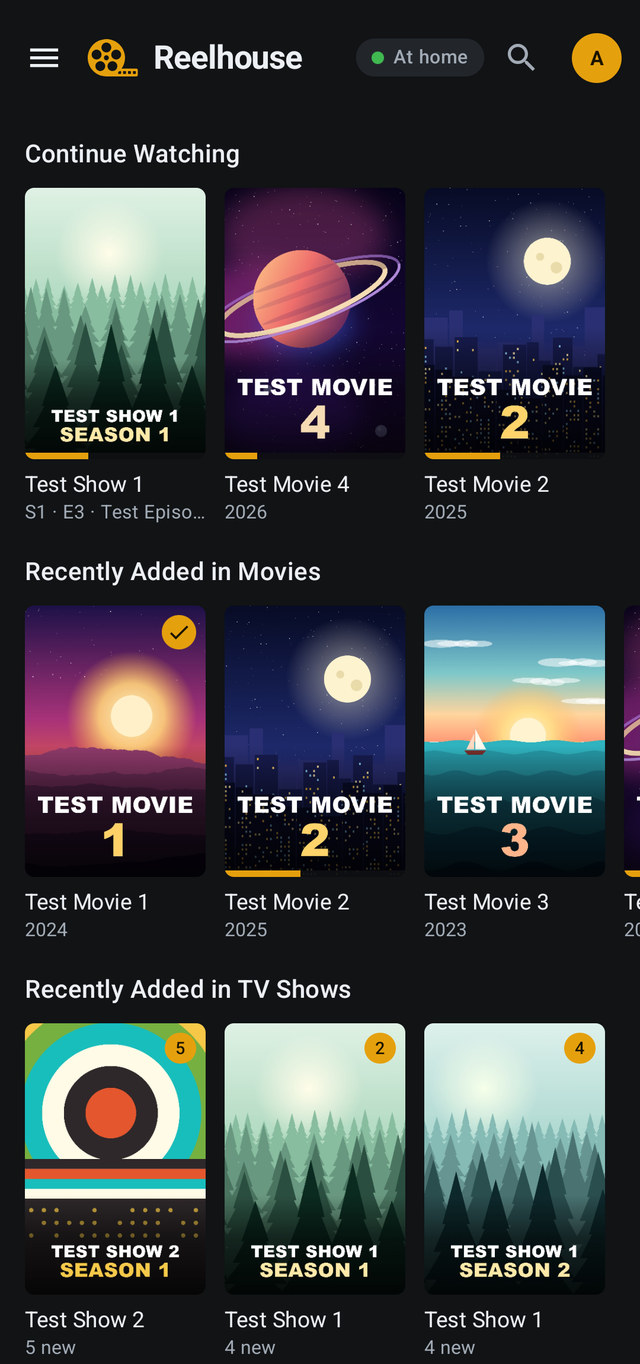
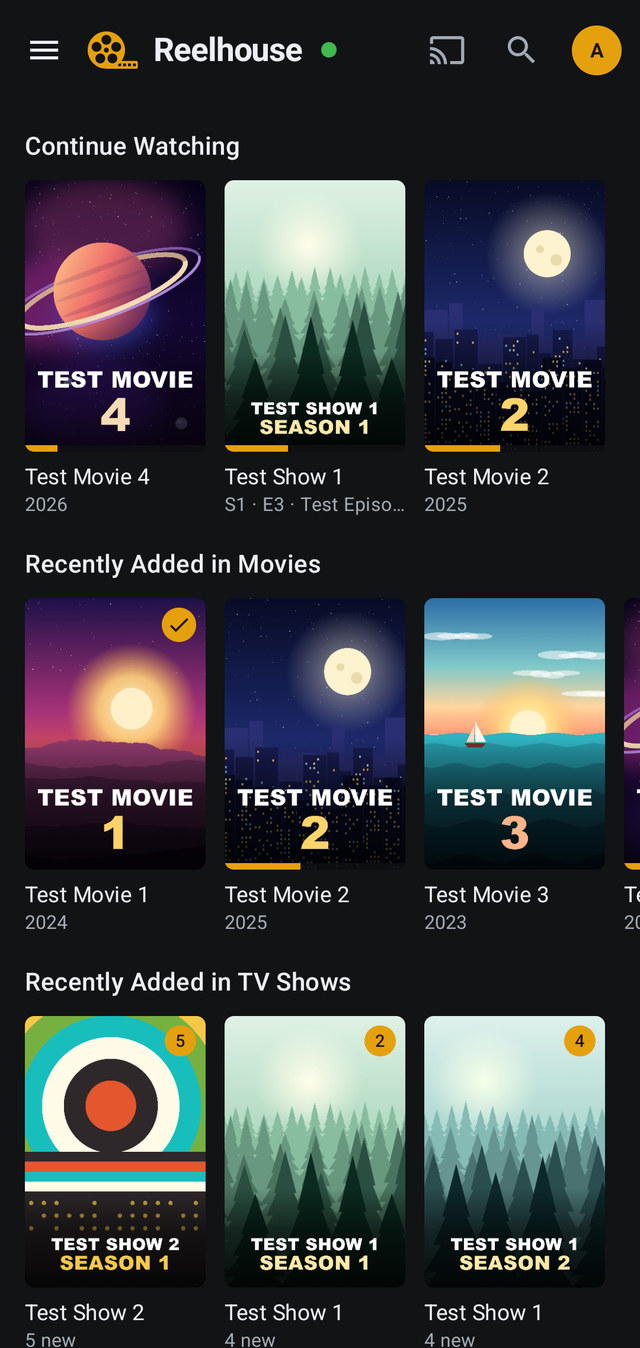
Reelhouse 0.26.2: the Play on list shows what each device is
- Server 0.26.2: a device the phone remote can control may say what it is
  in its event stream (&form=tablet or &form=firetv), and the list of
  devices passes it on; anything else is left out. Older apps send none and
  older servers ignore it.
- Android app 0.16.2 (versionCode 38): the app on a Fire TV (Fire OS's
  amazon.hardware.fire_tv) or a tablet says so, and the Play on list and the
  remote screen show each device's icon from it: a Fire TV as a stick beside
  its remote (a new icon, drawn on Material's grid), a tablet as a tablet,
  falling back to the kind (TV, browser, phone). On a tablet the list starts
  with "This tablet".
- README: the app's Home screenshot retaken (it showed app 0.11.1) and the
  Play on list's added to the Phone remote section, both from the made-up
  demo; android/README notes the icons.

diff --git a/android/app/src/main/java/app/reelhouse/android/ui/remote/Cast.kt b/android/app/src/main/java/app/reelhouse/android/ui/remote/Cast.kt
@@ -22,6 +22,7 @@ import androidx.compose.material.icons.filled.Computer
 import androidx.compose.material.icons.filled.Pause
 import androidx.compose.material.icons.filled.PhoneAndroid
 import androidx.compose.material.icons.filled.PlayArrow
+import androidx.compose.material.icons.filled.TabletAndroid
 import androidx.compose.material.icons.filled.Tv
 import androidx.compose.material3.ExperimentalMaterial3Api
 import androidx.compose.material3.Icon
@@ -51,12 +52,28 @@ import app.reelhouse.android.data.remote.RemoteTarget
 import app.reelhouse.android.ui.common.LocalRemoteDevice
 import app.reelhouse.android.ui.theme.Palette
 
-/** The icon for a kind of device. */
-fun targetIcon(kind: String): ImageVector = when (kind) {
-    "web" -> Icons.Filled.Computer
-    "phone" -> Icons.Filled.PhoneAndroid
-    else -> Icons.Filled.Tv // a TV box, Kodi
+/** What a device looks like in the phone remote's list. */
+enum class DeviceIcon { Phone, Tablet, Tv, FireTv, Computer }
+
+/** A device's icon: by what it says it is ([RemoteTarget.form], from app 0.16.2), else by its kind. */
+fun deviceIcon(kind: String, form: String?): DeviceIcon = when {
+    form == "firetv" -> DeviceIcon.FireTv
+    form == "tablet" -> DeviceIcon.Tablet
+    kind == "web" -> DeviceIcon.Computer
+    kind == "phone" -> DeviceIcon.Phone // the app before 0.16.2, on a tablet (or before 0.16.1, on a phone)
+    else -> DeviceIcon.Tv // a TV box other than a Fire TV, Kodi
 }
+
+val DeviceIcon.vector: ImageVector
+    get() = when (this) {
+        DeviceIcon.Phone -> Icons.Filled.PhoneAndroid
+        DeviceIcon.Tablet -> Icons.Filled.TabletAndroid
+        DeviceIcon.Tv -> Icons.Filled.Tv
+        DeviceIcon.FireTv -> FireTvIcon
+        DeviceIcon.Computer -> Icons.Filled.Computer
+    }
+
+fun targetIcon(t: RemoteTarget): ImageVector = deviceIcon(t.kind, t.form).vector
 
 /**
  * "Playing · A Show · S1 · E3", "Paused · A Film" or "Playing · One · The News", for a device's line in the list; just
@@ -106,15 +123,18 @@ fun PlayOnSheet(onDismiss: () -> Unit, onRemote: () -> Unit, onPicked: ((RemoteT
     val targets by c.remote.targets.collectAsState()
     val active by c.remote.active.collectAsState()
     LaunchedEffect(Unit) { c.remote.refresh() }
+    // The Cast button is on phones and tablets (not TV boxes).
+    val self = if (c.phone) "phone" else "tablet"
     ModalBottomSheet(onDismissRequest = onDismiss, sheetState = rememberModalBottomSheetState(skipPartiallyExpanded = true), containerColor = Palette.Elevated) {
         Column(Modifier.fillMaxWidth().padding(bottom = 24.dp)) {
             Text("Play on", style = MaterialTheme.typography.titleLarge, modifier = Modifier.padding(horizontal = 24.dp, vertical = 8.dp))
-            TargetRow(Icons.Filled.PhoneAndroid, "This phone", null, selected = active == null) {
+            val selfIcon = if (c.phone) DeviceIcon.Phone else DeviceIcon.Tablet
+            TargetRow(selfIcon.vector, "This $self", null, selected = active == null) {
                 c.remote.disconnect()
                 onDismiss()
             }
             for (t in targets) {
-                TargetRow(targetIcon(t.kind), t.label, targetLine(t), selected = active?.id == t.id) {
+                TargetRow(targetIcon(t), t.label, targetLine(t), selected = active?.id == t.id) {
                     c.remote.connect(t)
                     onDismiss()
                     when {
@@ -144,7 +164,7 @@ fun PlayOnSheet(onDismiss: () -> Unit, onRemote: () -> Unit, onPicked: ((RemoteT
                 )
             }
             Text(
-                "Lists your devices with Reelhouse open on the same network as this phone, and others' that they share " +
+                "Lists your devices with Reelhouse open on the same network as this $self, and others' that they share " +
                     "with anyone at home (what plays there counts on their account).",
                 style = MaterialTheme.typography.bodySmall,
                 color = Palette.TextFaint,

diff --git a/android/app/src/test/java/app/reelhouse/android/data/remote/RemoteTest.kt b/android/app/src/test/java/app/reelhouse/android/data/remote/RemoteTest.kt
@@ -2,8 +2,12 @@ package app.reelhouse.android.data.remote
 
 import app.reelhouse.android.data.events.ServerEvent
 import app.reelhouse.android.data.events.parseServerEvent
+import app.reelhouse.android.ui.common.deviceForm
 import app.reelhouse.android.ui.common.phoneSized
+import app.reelhouse.android.ui.remote.DeviceIcon
+import app.reelhouse.android.ui.remote.deviceIcon
 import app.reelhouse.android.ui.remote.stateLine
+import kotlinx.serialization.json.Json
 import org.junit.Assert.assertEquals
 import org.junit.Assert.assertNull
 import org.junit.Test
@@ -145,4 +149,35 @@ class RemoteTest {
         assertEquals(false, phoneSized(800)) // a Fire HD 10
         assertEquals(false, phoneSized(0)) // Android doesn't know: not taken as a phone
     }
+
+    @Test
+    fun `a device says what it is - a Fire TV or a tablet - and the stream query carries it while it may be controlled`() {
+        assertEquals("firetv", deviceForm(tvBox = true, phone = false, fireTv = true))
+        assertNull(deviceForm(tvBox = true, phone = false, fireTv = false)) // another TV box: its kind says it
+        assertEquals("tablet", deviceForm(tvBox = false, phone = false, fireTv = false))
+        assertNull(deviceForm(tvBox = false, phone = true, fireTv = false))
+
+        assertEquals("?target=tv&form=firetv", liveStreamQuery(tvBox = true, form = "firetv", target = true, shared = false))
+        assertEquals("?target=tv&form=firetv&shared=1", liveStreamQuery(tvBox = true, form = "firetv", target = true, shared = true))
+        assertEquals("?target=tv", liveStreamQuery(tvBox = true, form = null, target = true, shared = false))
+        assertEquals("", liveStreamQuery(tvBox = true, form = "firetv", target = false, shared = true))
+        assertEquals("?controller=1&target=phone&form=tablet", liveStreamQuery(tvBox = false, form = "tablet", target = true, shared = false))
+        assertEquals("?controller=1", liveStreamQuery(tvBox = false, form = "tablet", target = false, shared = false))
+        assertEquals("?controller=1", liveStreamQuery(tvBox = false, form = null, target = false, shared = false))
+    }
+
+    @Test
+    fun `each device's icon - what it says it is, else its kind`() {
+        assertEquals(DeviceIcon.FireTv, deviceIcon("tv", "firetv"))
+        assertEquals(DeviceIcon.Tablet, deviceIcon("phone", "tablet"))
+        assertEquals(DeviceIcon.Tv, deviceIcon("tv", null))
+        assertEquals(DeviceIcon.Tv, deviceIcon("kodi", null))
+        assertEquals(DeviceIcon.Computer, deviceIcon("web", null))
+        assertEquals(DeviceIcon.Phone, deviceIcon("phone", null)) // an older app on a tablet
+        assertEquals(DeviceIcon.Tv, deviceIcon("tv", "toaster")) // something new from a later app: by its kind
+        assertEquals("firetv", parseTarget("""{"id":"t","kind":"tv","name":"Fire TV Stick 4K","form":"firetv"}""").form)
+        assertNull(parseTarget("""{"id":"t","kind":"tv","name":"Shield"}""").form) // an older server
+    }
+
+    private fun parseTarget(json: String): RemoteTarget = Json { ignoreUnknownKeys = true }.decodeFromString(json)
 }

diff --git a/android/app/src/main/java/app/reelhouse/android/AppContainer.kt b/android/app/src/main/java/app/reelhouse/android/AppContainer.kt
@@ -14,7 +14,10 @@ import app.reelhouse.android.data.downloads.FileDownloader
 import app.reelhouse.android.data.downloads.downloadsToRemove
 import app.reelhouse.android.data.remote.RemoteControl
 import app.reelhouse.android.data.remote.RemoteReceiver
+import app.reelhouse.android.data.remote.liveStreamQuery
 import app.reelhouse.android.data.update.AppUpdater
+import app.reelhouse.android.ui.common.deviceForm
+import app.reelhouse.android.ui.common.isFireTv
 import app.reelhouse.android.ui.common.isPhone
 import app.reelhouse.android.ui.common.isRemoteDevice
 import kotlinx.coroutines.flow.SharingStarted
@@ -53,6 +56,9 @@ class AppContainer(app: Application) {
     /** A phone (not a tablet or a TV): it's the remote, so never a device the phone remote controls. */
     val phone: Boolean = !tvBox && isPhone(app)
 
+    /** What this device is, for its icon in a phone's Play on list: `firetv`, `tablet` or null (deviceForm). */
+    private val form: String? = deviceForm(tvBox, phone, isFireTv(app))
+
     /**
      * Whether a phone may control this device (Settings; on by default on a TV box, off on a tablet until switched on;
      * never on a phone, which has no switch, even if one was switched on before phones lost it).
@@ -85,14 +91,9 @@ class AppContainer(app: Application) {
     val http: OkHttpClient = Http.client(::tokenFor)
     val api: ReelhouseApi = ReelhouseApi(http, base = { connection.baseUrl }, onUnauthorized = ::signedOutByServer)
     val connection: ConnectionManager = ConnectionManager(app, store, api, RoutePlanner(GoTunnels), scope)
-    // The live stream says what this device is to the phone remote: a phone hears about the devices it can control,
-    // and a device a phone may control takes its commands (shared with anyone at home when that's on too).
+    // The live stream says what this device is to the phone remote (liveStreamQuery).
     private val liveQuery: StateFlow<String> = combine(remoteTargetOn, remoteSharedOn) { on, shared ->
-        listOfNotNull(
-            "controller=1".takeIf { !tvBox },
-            (if (tvBox) "target=tv" else "target=phone").takeIf { on },
-            "shared=1".takeIf { on && shared },
-        ).joinToString("&").let { if (it.isEmpty()) "" else "?$it" }
+        liveStreamQuery(tvBox, form, target = on, shared = shared)
     }.stateIn(scope, SharingStarted.Eagerly, "")
     val live = LiveUpdates(http, connection, scope, liveQuery)
     val remote = RemoteControl(api, live, connection, scope)

diff --git a/server/remote.js b/server/remote.js
@@ -27,6 +27,8 @@ import { channels, channelByUuid, liveTvOn } from './livetv/guide.js';
 
 /** What a target is: a browser tab, Kodi, the app on a TV box, the app on a phone or tablet. */
 export const TARGET_KINDS = new Set(['web', 'kodi', 'tv', 'phone']);
+/** What the app says a device is, for its icon in the phone's list (app 0.16.2+): a tablet, or a Fire TV. */
+export const TARGET_FORMS = new Set(['tablet', 'firetv']);
 export const COMMANDS = new Set([
   'play', 'pause', 'resume', 'seek', 'skip', 'stop', 'next', 'previous', 'audio', 'subtitle', 'volume', 'mute',
 ]);
@@ -37,7 +39,7 @@ const MAX_TRACKS = 30;
 const LABEL_LENGTH = 80;
 const TRACK_ID_LENGTH = 40;
 
-// id → { id, kind, name, userId, username, sessionId, where, client, claim, shared, controls }
+// id → { id, kind, form, name, userId, username, sessionId, where, client, claim, shared, controls }
 const targets = new Map();
 const controllers = new Set(); // { client, userId, sessionId, where }
 // command id → { senderUserId, senderSession, targetId, targetUserId, targetSession, at }
@@ -123,8 +125,8 @@ function nudge(target) {
 
 /**
  * An event stream opened (GET /api/events): `?target=web|kodi|tv|phone` makes it a target (`&shared=1`: anyone at
- * home may use it), `?controller=1` a phone that wants to hear about its targets. A target hears its id first
- * (remote-hello), for claim() and reportControls().
+ * home may use it; `&form=tablet|firetv`: what it is, for its icon), `?controller=1` a phone that wants to hear about
+ * its targets. A target hears its id first (remote-hello), for claim() and reportControls().
  */
 export function joinStream(req, client, query = {}) {
   const sessionId = req.sessionId;
@@ -137,6 +139,7 @@ export function joinStream(req, client, query = {}) {
       ...base,
       id: crypto.randomBytes(9).toString('base64url'),
       kind: query.target,
+      form: TARGET_FORMS.has(query.form) ? query.form : null,
       name: (req.device || browserName(req.headers?.['user-agent'])).slice(0, 80),
       username: req.user.username,
       claim: ++claims,
@@ -219,6 +222,7 @@ export function stateFor(target, viewer, state = stateOf(target)) {
 const describe = (t, viewer) => ({
   id: t.id,
   kind: t.kind,
+  form: t.form,
   name: t.name,
   owner: t.userId === viewer.id ? null : t.username,
   state: stateFor(t, viewer),

diff --git a/android/app/src/main/java/app/reelhouse/android/ui/remote/FireTvIcon.kt b/android/app/src/main/java/app/reelhouse/android/ui/remote/FireTvIcon.kt
@@ -1,0 +1,29 @@
+package app.reelhouse.android.ui.remote
+
+import androidx.compose.ui.graphics.Color
+import androidx.compose.ui.graphics.PathFillType
+import androidx.compose.ui.graphics.SolidColor
+import androidx.compose.ui.graphics.vector.ImageVector
+import androidx.compose.ui.graphics.vector.addPathNodes
+import androidx.compose.ui.unit.dp
+
+/**
+ * A Fire TV in the phone remote's list: the stick beside its remote (Material has no streaming-stick icon). Drawn on
+ * Material's 24 by 24 grid and filled as its icons are, so it sits with them; the Icon's tint colours it.
+ */
+val FireTvIcon: ImageVector by lazy {
+    ImageVector.Builder(name = "FireTv", defaultWidth = 24.dp, defaultHeight = 24.dp, viewportWidth = 24f, viewportHeight = 24f)
+        .addPath(pathData = addPathNodes(FIRE_TV_PATH), pathFillType = PathFillType.EvenOdd, fill = SolidColor(Color.Black))
+        .build()
+}
+
+// The stick (its body, then the HDMI plug on top), then the remote: the ring of arrow keys round the select button,
+// and two buttons below, which the even-odd fill cuts out of it.
+private const val FIRE_TV_PATH =
+    "M4.5,9h4a1.5,1.5 0 0 1 1.5,1.5v9a1.5,1.5 0 0 1 -1.5,1.5h-4a1.5,1.5 0 0 1 -1.5,-1.5v-9a1.5,1.5 0 0 1 1.5,-1.5z" +
+        "M4.75,5.5h3.5v3.5h-3.5z" +
+        "M16,2h1a3,3 0 0 1 3,3v14a3,3 0 0 1 -3,3h-1a3,3 0 0 1 -3,-3v-14a3,3 0 0 1 3,-3z" +
+        "M16.5,4.75a2.25,2.25 0 1 0 0,4.5a2.25,2.25 0 1 0 0,-4.5z" +
+        "M16.5,6a1,1 0 1 0 0,2a1,1 0 1 0 0,-2z" +
+        "M16.5,11.25a0.75,0.75 0 1 0 0,1.5a0.75,0.75 0 1 0 0,-1.5z" +
+        "M16.5,14.25a0.75,0.75 0 1 0 0,1.5a0.75,0.75 0 1 0 0,-1.5z"

diff --git a/android/app/src/main/java/app/reelhouse/android/data/remote/Remote.kt b/android/app/src/main/java/app/reelhouse/android/data/remote/Remote.kt
@@ -90,14 +90,29 @@ data class RemoteControls(
 }
 
 /**
- * A device the phone can control. [kind]: web | kodi | tv | phone. [owner]: whose it is, when it's someone else's
- * that they share with anyone at home (it plays as their account).
+ * The live stream's query, which says what this device is to the phone remote. A phone or tablet hears about the
+ * devices it can control (`controller`). A device a phone may control ([target]) takes its commands, as a `tv` or a
+ * `phone` (a tablet), saying what it is ([form]: deviceForm), and shared with anyone at home when [shared] is on too.
+ */
+fun liveStreamQuery(tvBox: Boolean, form: String?, target: Boolean, shared: Boolean): String =
+    listOfNotNull(
+        "controller=1".takeIf { !tvBox },
+        (if (tvBox) "target=tv" else "target=phone").takeIf { target },
+        form?.let { "form=$it" }?.takeIf { target },
+        "shared=1".takeIf { target && shared },
+    ).joinToString("&").let { if (it.isEmpty()) "" else "?$it" }
+
+/**
+ * A device the phone can control. [kind]: web | kodi | tv | phone. [form]: what it says it is, when it says (tablet |
+ * firetv; app 0.16.2 and up with server 0.26.2 and up). [owner]: whose it is, when it's someone else's that they share
+ * with anyone at home (it plays as their account).
  */
 @Serializable
 data class RemoteTarget(
     val id: String,
     val kind: String,
     val name: String,
+    val form: String? = null,
     val owner: String? = null,
     val state: RemoteState? = null,
     val controls: RemoteControls? = null,

diff --git a/android/app/src/main/java/app/reelhouse/android/ui/remote/RemoteControlScreen.kt b/android/app/src/main/java/app/reelhouse/android/ui/remote/RemoteControlScreen.kt
@@ -152,7 +152,7 @@ fun RemoteControlScreen(onBack: () -> Unit) {
                     title = {
                         active?.let { t ->
                             Row(verticalAlignment = Alignment.CenterVertically) {
-                                Icon(targetIcon(t.kind), contentDescription = null, tint = Palette.Accent, modifier = Modifier.size(22.dp))
+                                Icon(targetIcon(t), contentDescription = null, tint = Palette.Accent, modifier = Modifier.size(22.dp))
                                 Text(
                                     t.label,
                                     maxLines = 1,
@@ -178,7 +178,7 @@ fun RemoteControlScreen(onBack: () -> Unit) {
                 val target = active ?: return@Column
                 if (state == null) {
                     Spacer(Modifier.height(48.dp))
-                    Icon(targetIcon(target.kind), contentDescription = null, tint = Palette.TextDim, modifier = Modifier.size(56.dp))
+                    Icon(targetIcon(target), contentDescription = null, tint = Palette.TextDim, modifier = Modifier.size(56.dp))
                     Spacer(Modifier.height(16.dp))
                     Text("Nothing is playing on ${target.name}", style = MaterialTheme.typography.titleMedium, textAlign = TextAlign.Center)
                     Text(

diff --git a/test/remote.test.js b/test/remote.test.js
@@ -227,6 +227,22 @@ test('a phone at home lists its owner’s devices at home, each once, but not it
   assert.deepEqual((await targets(tv)).map((t) => t.name).sort(), ['Kodi', 'Pixel']);
 });
 
+test('a device can say it’s a tablet or a Fire TV, for its icon; anything else is left out', async () => {
+  const phone = await signIn('dave', 'Pixel');
+  const fireTv = await signIn('dave', 'Fire TV Stick 4K');
+  const tablet = await signIn('dave', 'Kitchen tablet');
+  const box = await signIn('dave', 'Shield');
+  const odd = await signIn('dave', 'Toaster');
+  await listen(fireTv, 'target=tv&form=firetv');
+  await listen(tablet, 'target=phone&form=tablet');
+  await listen(box, 'target=tv'); // an older app, or a TV box that isn't a Fire TV
+  await listen(odd, 'target=tv&form=toaster');
+  const list = await targets(phone);
+  assert.deepEqual(list.map((t) => [t.name, t.kind, t.form]), [
+    ['Fire TV Stick 4K', 'tv', 'firetv'], ['Kitchen tablet', 'phone', 'tablet'], ['Shield', 'tv', null], ['Toaster', 'tv', null],
+  ]);
+});
+
 test('only the same network: a phone away from home sees its devices where it is, not those at home', async () => {
   const phone = await signIn('dave', 'Pixel');
   const homeTv = await signIn('dave', 'Home TV');

diff --git a/android/app/src/main/java/app/reelhouse/android/ui/common/Remote.kt b/android/app/src/main/java/app/reelhouse/android/ui/common/Remote.kt
@@ -75,6 +75,19 @@ fun isPhone(context: Context): Boolean =
 /** Whether a screen with this smallest width (dp) is a phone's; 0 is Android's "not known", taken as not a phone. */
 fun phoneSized(smallestWidthDp: Int): Boolean = smallestWidthDp in 1 until 600
 
+/** A Fire TV (Fire OS): a stick, a Cube or a TV with Fire TV built in, which Android doesn't tell apart. */
+fun isFireTv(context: Context): Boolean = context.packageManager.hasSystemFeature("amazon.hardware.fire_tv")
+
+/**
+ * What this device tells the server it is, for its icon in the phone remote's list: `firetv`, `tablet`, or null (a
+ * phone, or a TV box other than a Fire TV, which the server knows by its kind).
+ */
+fun deviceForm(tvBox: Boolean, phone: Boolean, fireTv: Boolean): String? = when {
+    tvBox -> "firetv".takeIf { fireTv }
+    phone -> null
+    else -> "tablet"
+}
+
 private const val ARROW_MOVED_FOCUS_MS = 400L
 private const val KEEP_FROM_EDGE = 0.12f
 private val ARROW_SCROLL = 160.dp

diff --git a/README.md b/README.md
@@ -626,6 +626,10 @@ own player, the Cast button carries on over there from where you are, and the re
 behind it. (The app's top bar shows how it's connected as a coloured dot after the name, which makes room for the
 button; Settings still says it in words.)
 
+<p align="center">
+  <img src="docs/screenshots/android-play-on.jpg" alt="The app's Play on list on a phone: this phone, then a Fire TV playing a film, a browser, a tablet, Kodi and a TV, each with an icon for what it is" width="300">
+</p>
+
 Since 0.26.0 (with app 0.16.0 and Kodi add-on 0.16.0):
 
 - **Live TV and radio:** with a device picked, a channel tapped in the app's guide (which then says "Plays on …")
@@ -640,6 +644,9 @@ Since 0.26.0 (with app 0.16.0 and Kodi add-on 0.16.0):
   the same network, marked with whose it is. It plays as the device's own account (its watch history), and only what
   both of you may watch, so a [content rating](#content-ratings) limit still holds. Others see what it's playing only
   when their own account may see it; otherwise just that something is playing.
+
+Since 0.26.2 (with app 0.16.2), each device in the list has an icon for what it is: a Fire TV, a tablet, another TV
+box or Kodi, or a browser. On a tablet, the list's first entry is **This tablet**.
 
 What it can play on:
 

diff --git a/android/README.md b/android/README.md
@@ -123,6 +123,10 @@ subtitles; a volume slider and mute set its volume, and the phone's volume butto
 Other people's devices they share with anyone at home are listed too ("Living room TV · dave's"): they play as that
 person's account, and only what both of you may watch.
 
+Since 0.16.2 (with Reelhouse 0.26.2): each device in **Play on** has an icon for what it is. A Fire TV (a stick, a
+Cube or a TV with Fire TV built in) shows a stick beside its remote, and a tablet shows a tablet; other TV boxes and
+Kodi show a TV, and browsers a computer. On a tablet the list starts with **This tablet**.
+
 On a TV box the app takes a phone's commands while it's open (**Settings → Phone remote**, on by default there). On a
 tablet that switch is off until you turn it on. **Let others at home use it**, under it, lets other accounts' phones
 on the same network use the device too (off until you turn it on). A phone is the remote, so it has neither switch
